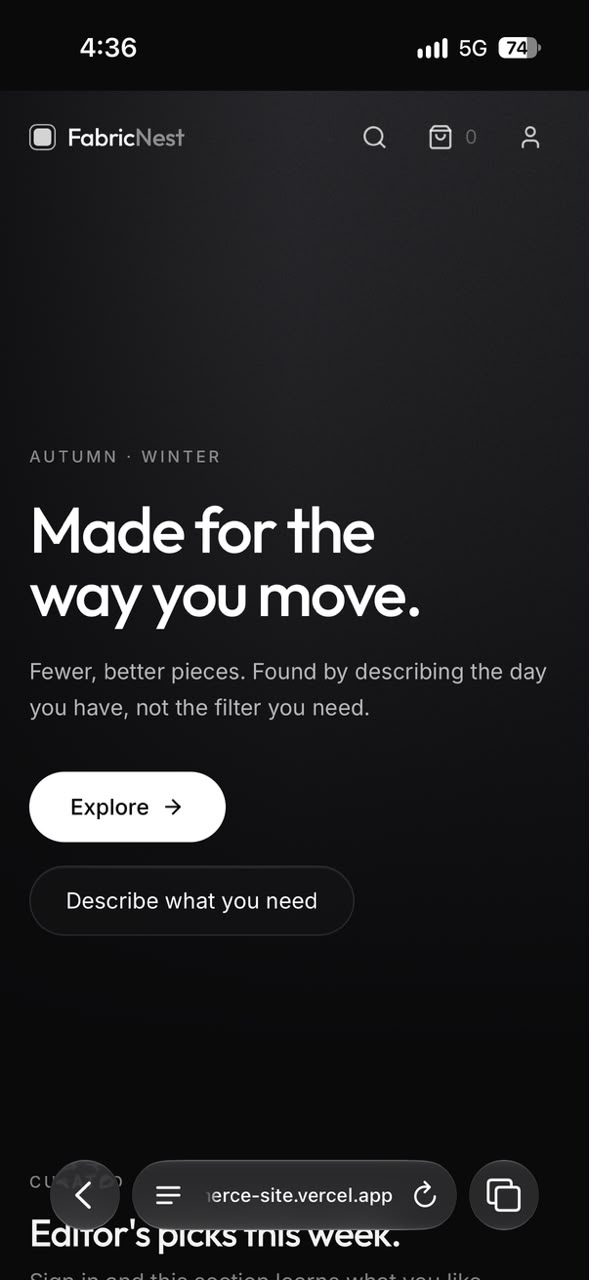
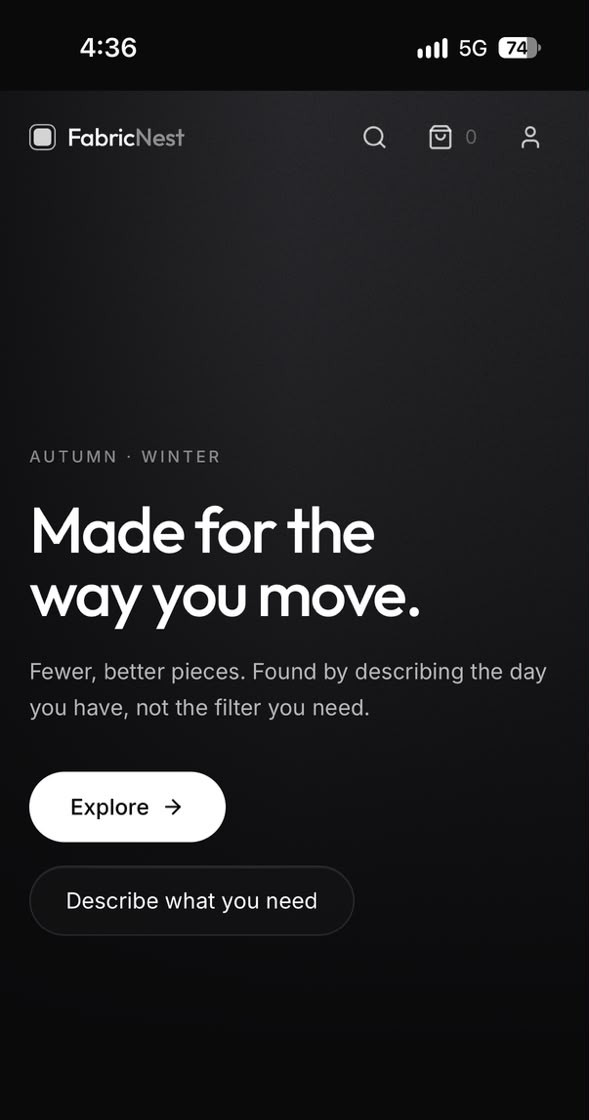
Projects page: use the uploaded phone captures
The four captures live at the root of /public. Safari's address bar is
cropped off the bottom of each (the iOS status bar at the top stays: it
sits either side of the Dynamic Island like a real phone). Each capture
keeps its true width inside the glass, and the screen takes the page's
own background colour behind it, sampled from the capture, so a
single-screen shot reads as a page with room below rather than a crop.

Claude-Session: https://claude.ai/code/session_01MCo7tAvk6cWm1yr9GeUg7F

diff --git a/src/app/projects/projects-index.js b/src/app/projects/projects-index.js
@@ -17,7 +17,7 @@ const NAV_ITEMS = [
 ];
 
 // Logos live at /public/<id>.png (the homepage marks); full-page phone captures
-// of each product live at /public/screens/.
+// of each product live at the root of /public.
 const PROJECTS = [
   {
     id: "ideako",
@@ -37,7 +37,8 @@ const PROJECTS = [
     ],
     live: "https://ideako.vercel.app/",
     github: "https://github.com/1Goutham/Ideako",
-    screen: "/screens/Ideakoss.jpg",
+    screen: "/Ideakoss.jpg",
+    screenBg: "#efeeea",
   },
   {
     id: "ztudylock",
@@ -57,7 +58,8 @@ const PROJECTS = [
     ],
     live: "https://ztudylock.vercel.app/",
     github: "https://github.com/1Goutham/ZtudyLock",
-    screen: "/screens/ZLss.jpg",
+    screen: "/ZLss.jpg",
+    screenBg: "#0a0a0a",
   },
   {
     id: "fabricnest",
@@ -77,7 +79,8 @@ const PROJECTS = [
     ],
     live: "https://aiecommerce-site.vercel.app/",
     github: "https://github.com/1Goutham/fabric-store",
-    screen: "/screens/FNss.jpg",
+    screen: "/FNss.jpg",
+    screenBg: "#0a0a0a",
   },
   {
     id: "ideaguard",
@@ -97,7 +100,8 @@ const PROJECTS = [
     ],
     live: "https://ideaguard-ai-zeta.vercel.app/",
     github: "https://github.com/1Goutham/IdeaGuardAI",
-    screen: "/screens/IGss.jpg",
+    screen: "/IGss.jpg",
+    screenBg: "#0f0f0f",
   },
 ];
 
@@ -295,7 +299,7 @@ function ProjectRow({ project, index }) {
 
       {/* The phone: a short tour of the product. Centred under the text on phones. */}
       <div className="flex justify-center pt-4 md:justify-end md:pt-0">
-        <Phone src={project.screen} alt={`${project.name} on a phone`} />
+        <Phone src={project.screen} bg={project.screenBg} alt={`${project.name} on a phone`} />
       </div>
     </article>
   );

diff --git a/src/app/components/layout/phone.js b/src/app/components/layout/phone.js
@@ -16,7 +16,7 @@ import { useCallback, useEffect, useRef } from "react";
  *
  * The frame is drawn with gradients and stacked shadows: no image assets.
  */
-export default function Phone({ src, alt, className = "" }) {
+export default function Phone({ src, alt, bg = "#000", className = "" }) {
   const stage = useRef(null);
   const body = useRef(null);
   const sim = useRef({ rx: 0, ry: 0, tx: 0, ty: 0, raf: 0, on: false });
@@ -79,6 +79,7 @@ export default function Phone({ src, alt, className = "" }) {
       onPointerMove={onPointerMove}
       onPointerLeave={onPointerLeave}
       className={`phone-stage ${className}`}
+      style={{ "--screen-bg": bg }}
     >
       <div ref={body} className="phone">
         <span className="phone-btn phone-btn-mute" aria-hidden="true" />

diff --git a/src/app/globals.css b/src/app/globals.css
@@ -1347,7 +1347,7 @@ video {
   inset: 8px;
   border-radius: calc(var(--radius) - 8px);
   overflow: hidden;
-  background: #000;
+  background: var(--screen-bg, #000); /* the page's own colour shows below a short capture */
   container-type: size;
   transform: translateZ(1px);
 }
